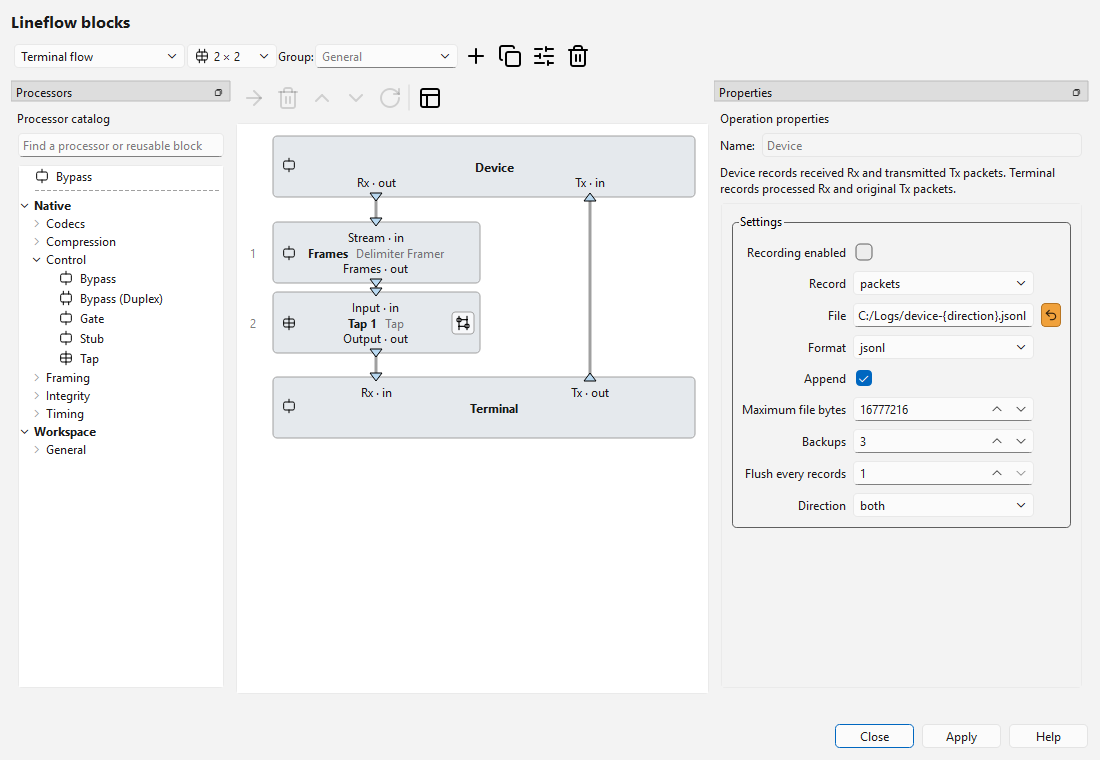
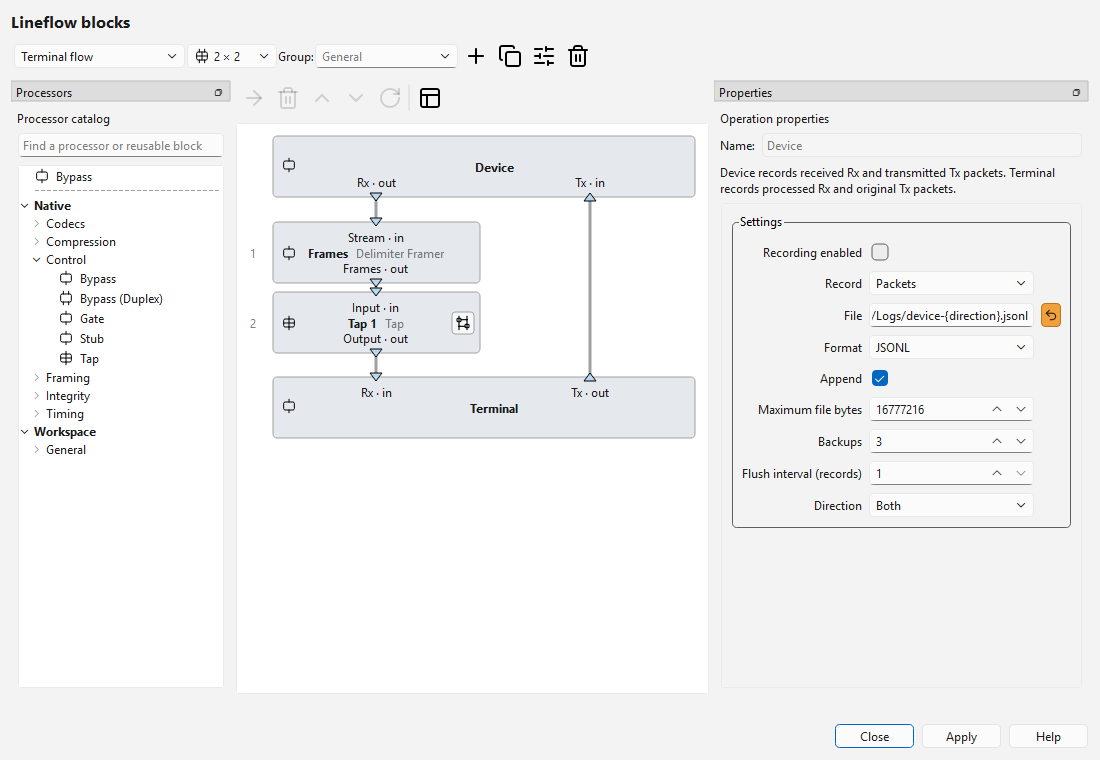
Processing: align boundary setting names and recording choice labels

Changed region(s): [[0.68, 0.3026, 0.9273, 0.4237], [0.68, 0.575, 0.8036, 0.6961], [0.68, 0.4539, 0.8345, 0.5447]]

diff --git a/src/Core/src/Processing/LineflowEndpoint.cpp b/src/Core/src/Processing/LineflowEndpoint.cpp
@@ -339,7 +339,7 @@ content:
       x-order: 7
     flushEvery:
       type: integer
-      title: Flush every records
+      title: Flush interval (records)
       minimum: 1
       maximum: 1024
       default: 1
@@ -349,6 +349,8 @@ content:
       type: string
       title: Format
       enum: [jsonl, binary, hex]
+      x-widget-options:
+        variantTitles: {jsonl: JSONL, binary: Binary, hex: HEX}
       default: jsonl
       x-order: 4
 )";
@@ -358,13 +360,17 @@ content:
       type: string
       title: Direction
       enum: [both, rx, tx]
+      x-widget-options:
+        variantTitles: {both: Both, rx: Rx, tx: Tx}
       default: both
       x-order: 9
 )";
     }
     if (!allowLines)
     {
-        result.replace("      default: packets", "      enum: [packets]\n      default: packets");
+        result.replace(
+            "      default: packets",
+            "      enum: [packets]\n      x-widget-options:\n        variantTitles: {packets: Packets}\n      default: packets");
         return result + packetProperties;
     }
 
@@ -389,6 +395,8 @@ content:
           type: string
           title: Line ending
           enum: [lf, crlf]
+          x-widget-options:
+            variantTitles: {lf: LF, crlf: CRLF}
           default: lf
           x-order: 10
         trimTrailingSpaces:

diff --git a/src/Core/src/Processing/ProcessorRegistry.cpp b/src/Core/src/Processing/ProcessorRegistry.cpp
@@ -1675,8 +1675,10 @@ std::optional<QList<ProcessorRegistry::PropertyNode>> ProcessorRegistry::propert
                 child.name              = '@' + QString::fromLatin1(endpoint);
                 child.entry             = std::make_shared<Entry>();
                 child.entry->type.id    = child.name;
-                child.entry->type.title = QString::fromLatin1(endpoint) == "initial" ? QStringLiteral("Initial") :
-                                                                                       QStringLiteral("Final");
+                const bool initial      = QString::fromLatin1(endpoint) == "initial";
+                child.entry->type.title = entry->type.inputCount == 2 ?
+                                              (initial ? QStringLiteral("Device") : QStringLiteral("Terminal")) :
+                                              (initial ? QStringLiteral("Input") : QStringLiteral("Output"));
                 child.entry->type.settingsSchema = LineflowEndpoint::settingsSchema(entry->type.inputCount,
                                                                                     QString::fromLatin1(endpoint)
                                                                                         == "final");

diff --git a/docs/roadmap.md b/docs/roadmap.md
@@ -721,3 +721,9 @@ Priorities are ordered by dependency; reusable one-line compositions remain supp
 - [x] Render boundaries with the ordinary node body and port markers, retaining only the lower Device pair and upper Terminal pair.
 - [x] Preserve fixed positions, recording drafts and lane-aligned port directions.
 - [x] Verify the Release editor suite, native 100%/200% captures and final Debug build.
+
+## FLOW-30: Consistent boundary recording labels
+
+- [x] Match Device/Terminal and Input/Output property groups to diagram boundary names.
+- [x] Use sentence case and conventional acronym casing for recording choices while preserving stored values.
+- [x] Verify four affected Release suites, native editor/property captures and the final Debug build.

diff --git a/docs/lineflow-boundaries.md b/docs/lineflow-boundaries.md
@@ -105,3 +105,7 @@ The final Debug application and bundled transport plugins were built successfull
 The FLOW-29 boundary presentation update passed the complete Release editor suite
 and native 100%/200% checks. Captures above reflect the ordinary fixed block
 presentation. The final Debug application was rebuilt.
+
+Boundary property groups use the same names as their diagram blocks. Recording
+choices use sentence case with conventional acronyms (JSONL, HEX, LF, CRLF);
+only presentation labels change, while stored values remain unchanged.
